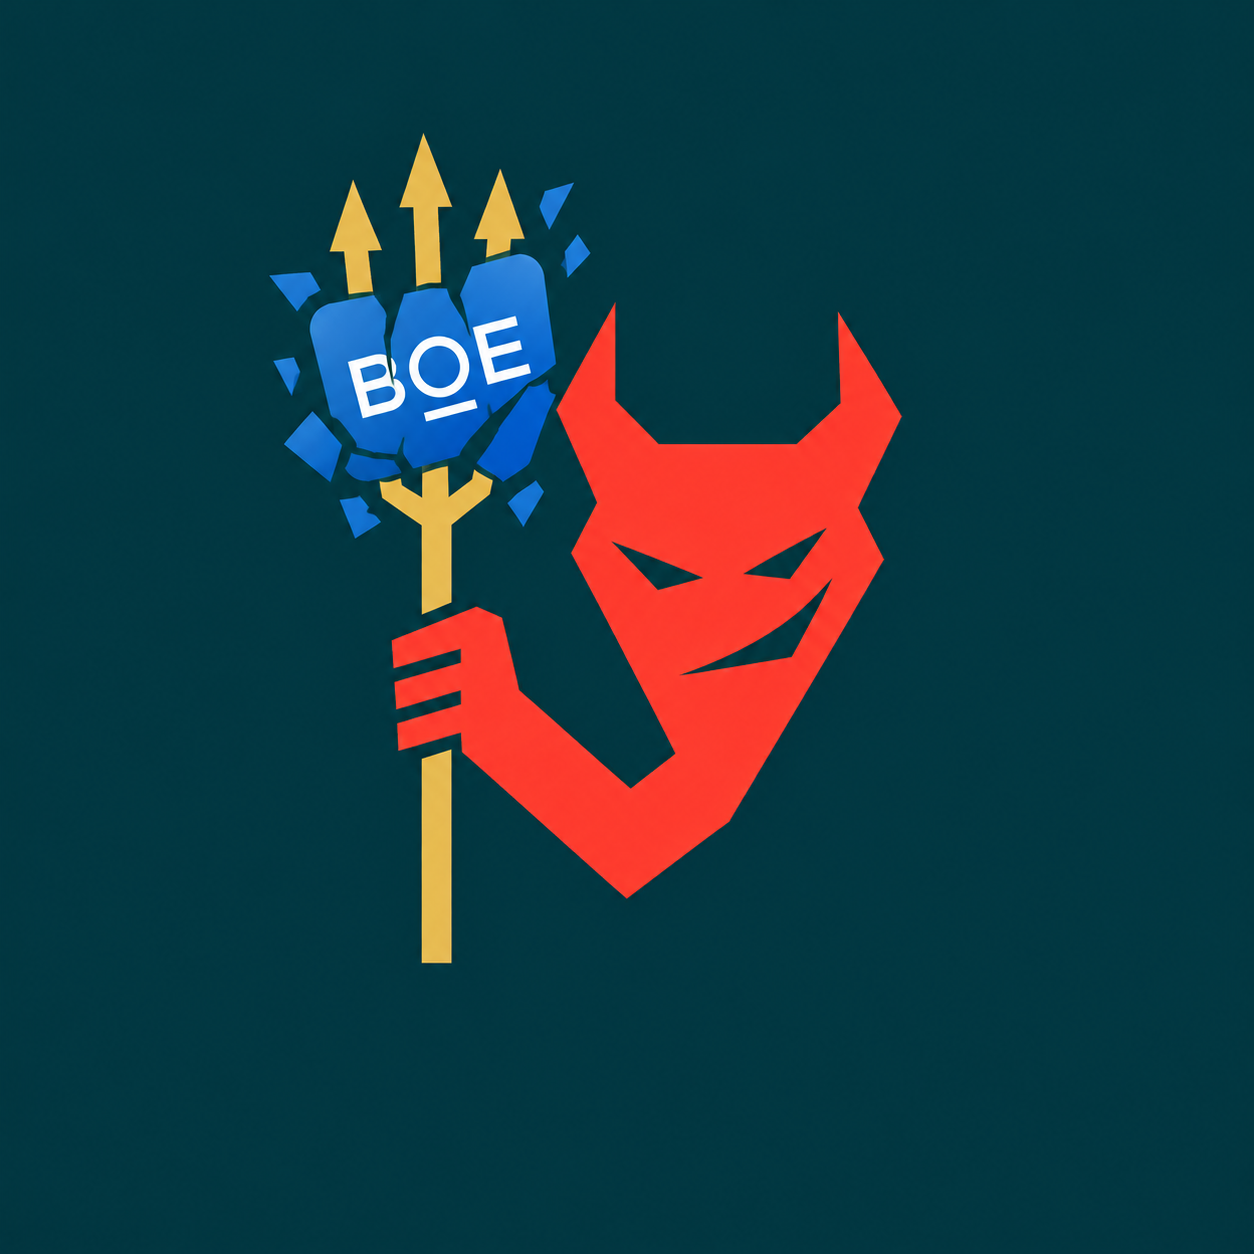
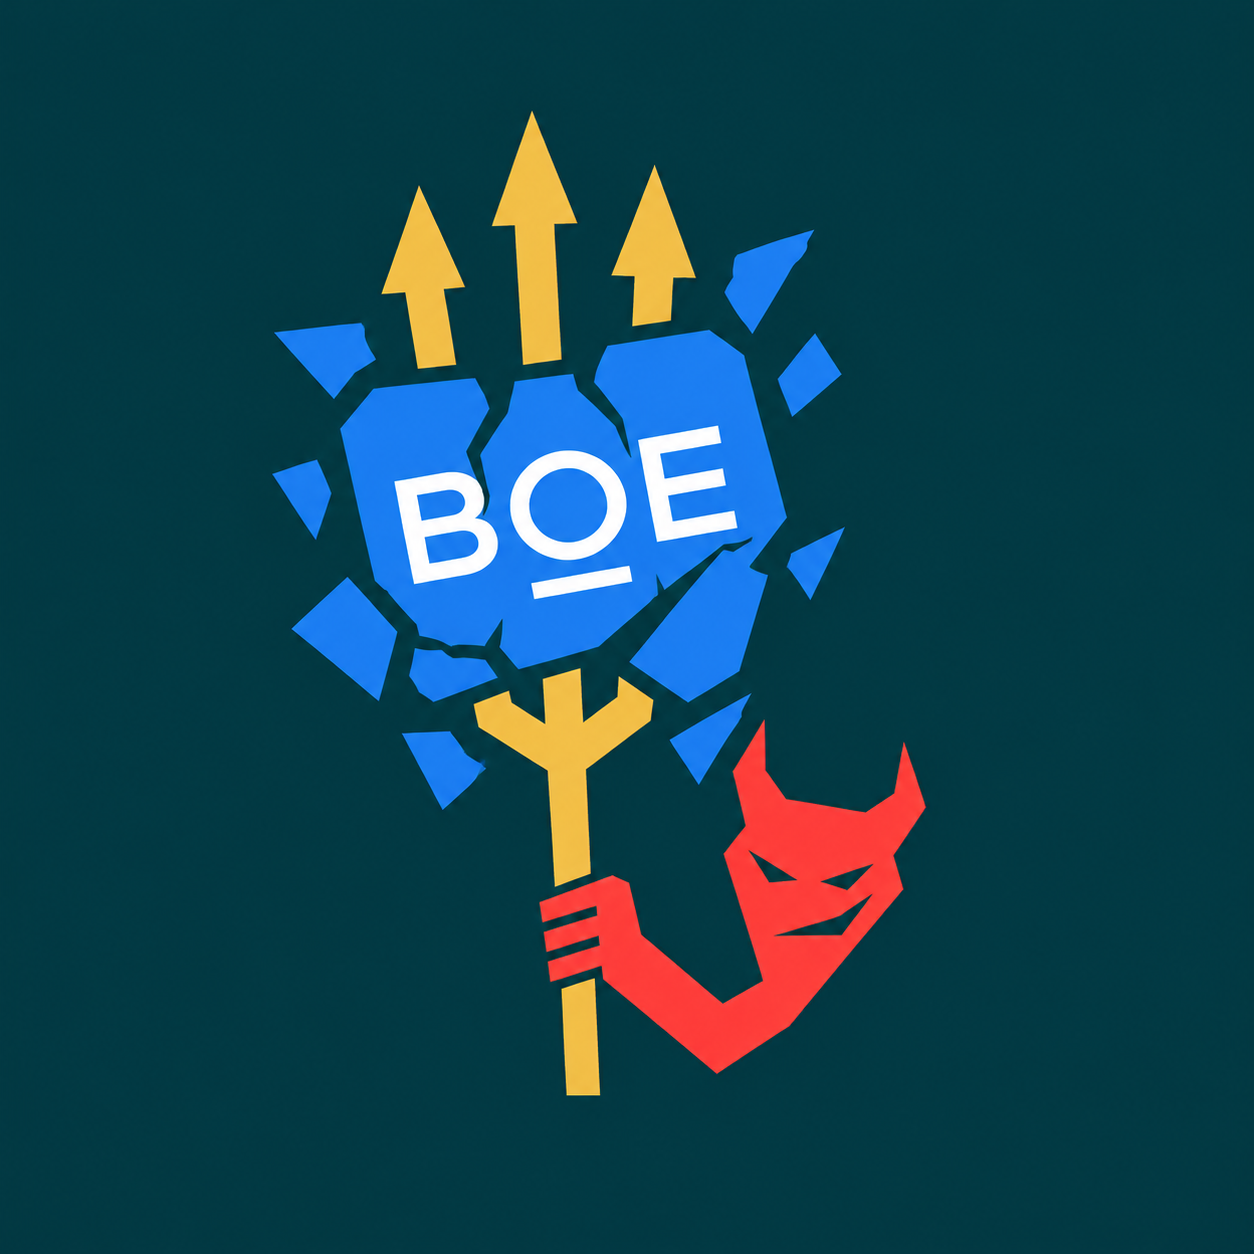
design: emphasize the shattered BOE portal with a smaller lower-right devil
Restore natural lettering and a circular O. Validate portal dominance, relative placement, letter proportions and adaptive-icon safe margins on Android.

Changed region(s): [[0.2177, 0.0933, 0.7464, 0.8708]]

diff --git a/app/src/androidTest/java/com/luskyle/clockintest/TimeWindowUiTest.kt b/app/src/androidTest/java/com/luskyle/clockintest/TimeWindowUiTest.kt
@@ -109,19 +109,33 @@ class TimeWindowUiTest {
         assertTrue(icon is AdaptiveIconDrawable)
         icon as AdaptiveIconDrawable
         if (Build.VERSION.SDK_INT >= 33) assertNotNull(icon.monochrome)
-        val bitmap = Bitmap.createBitmap(108, 108, Bitmap.Config.ARGB_8888)
+        val renderScale = 4
+        val size = 108 * renderScale
+        val bitmap = Bitmap.createBitmap(size, size, Bitmap.Config.ARGB_8888)
         try {
-            icon.foreground.setBounds(0, 0, 108, 108)
+            icon.foreground.setBounds(0, 0, size, size)
             icon.foreground.draw(Canvas(bitmap))
             var red = 0
             var gold = 0
             var blue = 0
-            val letters = Rect(108, 108, 0, 0)
-            for (y in 0 until 108) for (x in 0 until 108) {
+            var redX = 0
+            var redY = 0
+            var blueX = 0
+            var blueY = 0
+            val letters = Rect(size, size, 0, 0)
+            for (y in 0 until size) for (x in 0 until size) {
                 val pixel = bitmap.getPixel(x, y)
-                if (pixel == Color.rgb(255, 75, 54)) red++
+                if (pixel == Color.rgb(255, 75, 54)) {
+                    red++
+                    redX += x
+                    redY += y
+                }
                 if (pixel == Color.rgb(232, 190, 97)) gold++
-                if (pixel == Color.rgb(22, 132, 221)) blue++
+                if (pixel == Color.rgb(22, 132, 221)) {
+                    blue++
+                    blueX += x
+                    blueY += y
+                }
                 if (pixel == Color.WHITE) {
                     letters.left = minOf(letters.left, x)
                     letters.top = minOf(letters.top, y)
@@ -129,16 +143,22 @@ class TimeWindowUiTest {
                     letters.bottom = maxOf(letters.bottom, y + 1)
                 }
                 if (Color.alpha(pixel) >= 128) {
-                    val dx = x + 0.5 - 54
-                    val dy = y + 0.5 - 54
-                    assertTrue("Icon artwork exceeds the adaptive safe circle", dx * dx + dy * dy <= 33.5 * 33.5)
+                    val dx = x + 0.5 - size / 2
+                    val dy = y + 0.5 - size / 2
+                    val radius = 33.5 * renderScale
+                    assertTrue("Icon artwork exceeds the adaptive safe circle", dx * dx + dy * dy <= radius * radius)
                 }
             }
-            assertTrue("Devil silhouette is missing", red > 300)
-            assertTrue("Trident is missing", gold > 50)
-            assertTrue("Shattered portal icon is missing", blue > 30)
-            assertTrue("BOE lettering is too narrow: ${letters.width()}", letters.width() >= 21)
-            assertTrue("BOE lettering is too short: ${letters.height()}", letters.height() >= 11)
+            android.util.Log.i("IconBrandTest", "red=$red gold=$gold blue=$blue letters=$letters")
+            assertTrue("Devil silhouette is missing: $red pixels", red > 60 * renderScale * renderScale)
+            assertTrue("Trident is missing: $gold pixels", gold > 50 * renderScale * renderScale)
+            assertTrue("Shattered portal icon is missing: $blue pixels", blue > 30 * renderScale * renderScale)
+            assertTrue("The shattered portal should dominate the devil", blue >= red * 2)
+            assertTrue("The devil should sit to the right", redX.toDouble() / red > blueX.toDouble() / blue + 8 * renderScale)
+            assertTrue("The devil should sit below the portal", redY.toDouble() / red > blueY.toDouble() / blue + 12 * renderScale)
+            assertTrue("BOE lettering is too narrow: ${letters.width()}", letters.width() >= 24 * renderScale)
+            assertTrue("BOE lettering is too short: ${letters.height()}", letters.height() >= 8 * renderScale)
+            assertTrue("BOE lettering is stretched", letters.width().toDouble() / letters.height() in 2.0..3.2)
         } finally {
             bitmap.recycle()
         }

diff --git a/docs/RELEASE.md b/docs/RELEASE.md
@@ -10,8 +10,8 @@
 - 应用及首页名称“永不迟到”，同步通知和无障碍服务名称。
 - 抽象几何恶魔手握三叉戟，刺穿并撑裂 BOE 移动门户图标的视觉设计。
   仅为图标表达，不改动或破坏移动门户 App，不代表 BOE 官方应用或授权合作。
-- 放大蓝色门户图块与 BOE 字样，使用更粗、完整的白色字母并减少文字区域裂缝；
-  恶魔头部右移，避免遮挡字样，保持自适应裁切安全边距。
+- 突出大块碎裂的蓝色门户图标，恶魔缩小并移至右下角；BOE 字母保持自然比例，
+  O 使用正圆，不拉高或压窄文字，保持自适应裁切安全边距。
 - 上下班时间段、滚轮选择、中国工作日规则和熄屏导航机制保留。
 - GitHub Actions 执行 JVM 单元测试、lint、debug/release APK 与设备测试 APK 编译；
   自动发布以 `v` 开头且与应用版本一致的标签为 GitHub 预发布。

diff --git a/docs/android-helper.md b/docs/android-helper.md
@@ -5,7 +5,7 @@
 包名与签名不变，覆盖安装保留原配置和授权，不会因此开启计划。
 v0.4.2 加入三叉戟刺穿并撑裂门户图标的抽象视觉、CI/CD 与
 [Release 交付说明](RELEASE.md)，不会改动 BOE 应用本身。
-v0.4.3 放大门户图块与 BOE 字样、加粗白色字母并调整头部位置，改善小尺寸图标辨识度。
+v0.4.3 突出碎裂的门户图块，缩小恶魔并移至右下角，BOE 字母保持自然比例，改善小尺寸辨识度。
 
 图标设计原图保存在 [launcher-concept.png](../artwork/launcher-concept.png)，
 Android 矢量实现位于 [ic_helper.xml](../app/src/main/res/drawable/ic_helper.xml)，
